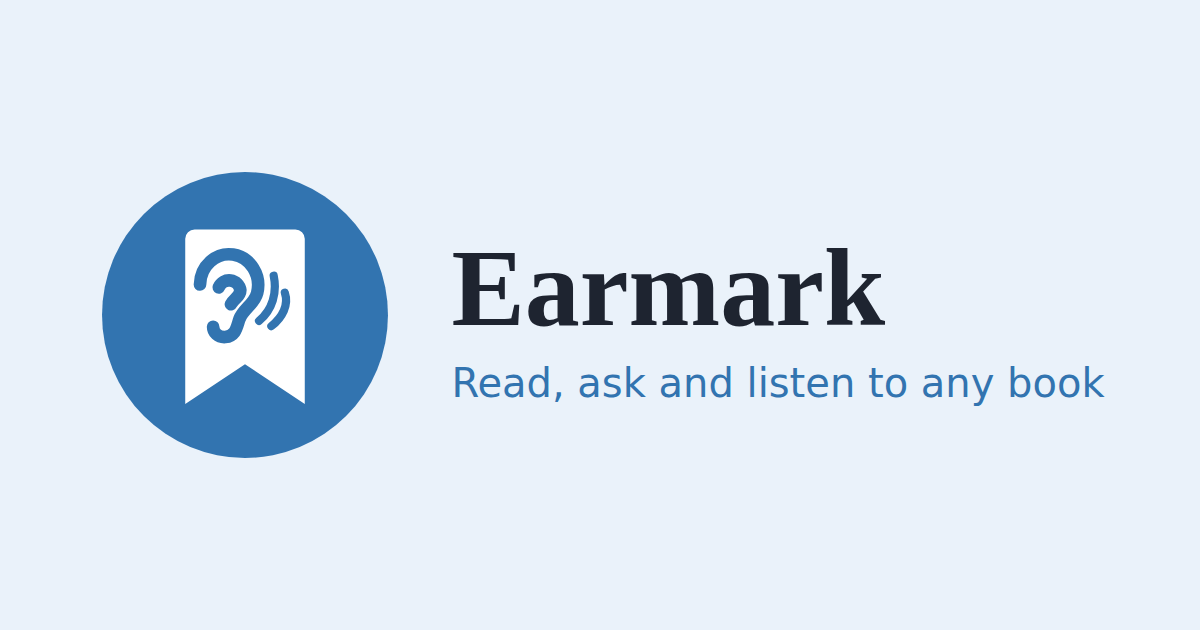
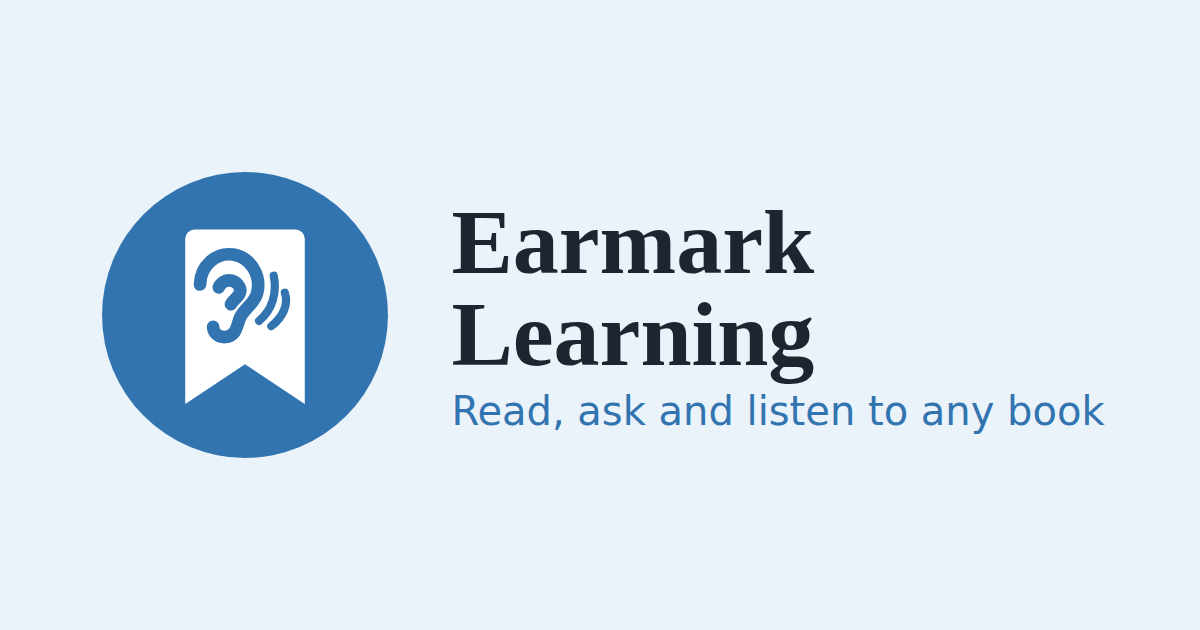
Site name for search and link previews: Earmark Learning (the app itself still says Earmark)
Claude-Session: https://claude.ai/code/session_01N7fBuAPee6VknQyKKPTLe3

Changed region(s): [[0.37, 0.3317, 0.925, 0.6937]]

diff --git a/public/index.html b/public/index.html
@@ -3,13 +3,13 @@
 <head>
 <meta charset="utf-8">
 <meta name="viewport" content="width=device-width,initial-scale=1">
-<meta name="description" content="Earmark is a free study app: upload any book, PDF or web page, ask questions answered from the text, have it read aloud in a natural voice, translate it, and learn with flashcards, quizzes and games.">
+<meta name="description" content="Earmark Learning is a free study app: upload any book, PDF or web page, ask questions answered from the text, have it read aloud in a natural voice, translate it, and learn with flashcards, quizzes and games.">
 <link rel="canonical" href="${SITE}/">
 <meta name="robots" content="index,follow">
 <meta name="google-site-verification" content="fQiBduHC-Ci-yuCdESMy9poMLhiOSOp9_uSRGNDnLz0">
 <meta property="og:type" content="website">
-<meta property="og:site_name" content="Earmark">
-<meta property="og:title" content="Earmark — read, ask and listen to any book">
+<meta property="og:site_name" content="Earmark Learning">
+<meta property="og:title" content="Earmark Learning — read, ask and listen to any book">
 <meta property="og:description" content="Upload any book or PDF, ask questions, listen to it read aloud, and study with flashcards, quizzes and games.">
 <meta property="og:url" content="${SITE}/">
 <meta name="twitter:card" content="summary_large_image">
@@ -21,10 +21,11 @@
 <link rel="apple-touch-icon" href="/apple-touch-icon.png">
 <link rel="manifest" href="/manifest.webmanifest">
 <meta name="theme-color" content="#3274B0">
-<script type="application/ld+json">{"@context":"https://schema.org","@type":"WebApplication","name":"Earmark","alternateName":"Earmark study app","url":"${SITE}/","image":"${SITE}/icon-512.png","applicationCategory":"EducationalApplication","operatingSystem":"Any (web browser)","description":"Upload any book, PDF or web page, ask questions answered from the text, listen to it read aloud, translate it, and study with flashcards, quizzes and games.","offers":{"@type":"Offer","price":"0","priceCurrency":"USD"}}</script>
+<script type="application/ld+json">{"@context":"https://schema.org","@type":"WebSite","name":"Earmark Learning","alternateName":["Earmark","Earmark Learning site"],"url":"https://earmark-4wf.pages.dev/"}</script>
+<script type="application/ld+json">{"@context":"https://schema.org","@type":"WebApplication","name":"Earmark Learning","alternateName":["Earmark","Earmark study app"],"url":"${SITE}/","image":"${SITE}/icon-512.png","applicationCategory":"EducationalApplication","operatingSystem":"Any (web browser)","description":"Upload any book, PDF or web page, ask questions answered from the text, listen to it read aloud, translate it, and study with flashcards, quizzes and games.","offers":{"@type":"Offer","price":"0","priceCurrency":"USD"}}</script>
 <style>[hidden]:not([hidden=until-found i]){display:none!important}body{margin:0}</style>
 <script src="platform.js"></script>
-<title>Earmark — read, ask and listen to any book</title>
+<title>Earmark Learning — read, ask and listen to any book</title>
 <link rel="stylesheet" href="https://fonts.googleapis.com/css2?family=Andika:wght@400;700&family=Atkinson+Hyperlegible+Next:wght@400;500;600;700&family=Fraunces:opsz,wght@9..144,400;9..144,500;9..144,600;9..144,700&family=Work+Sans:wght@400;500;600;700&display=swap">
 <style>
   :root{
